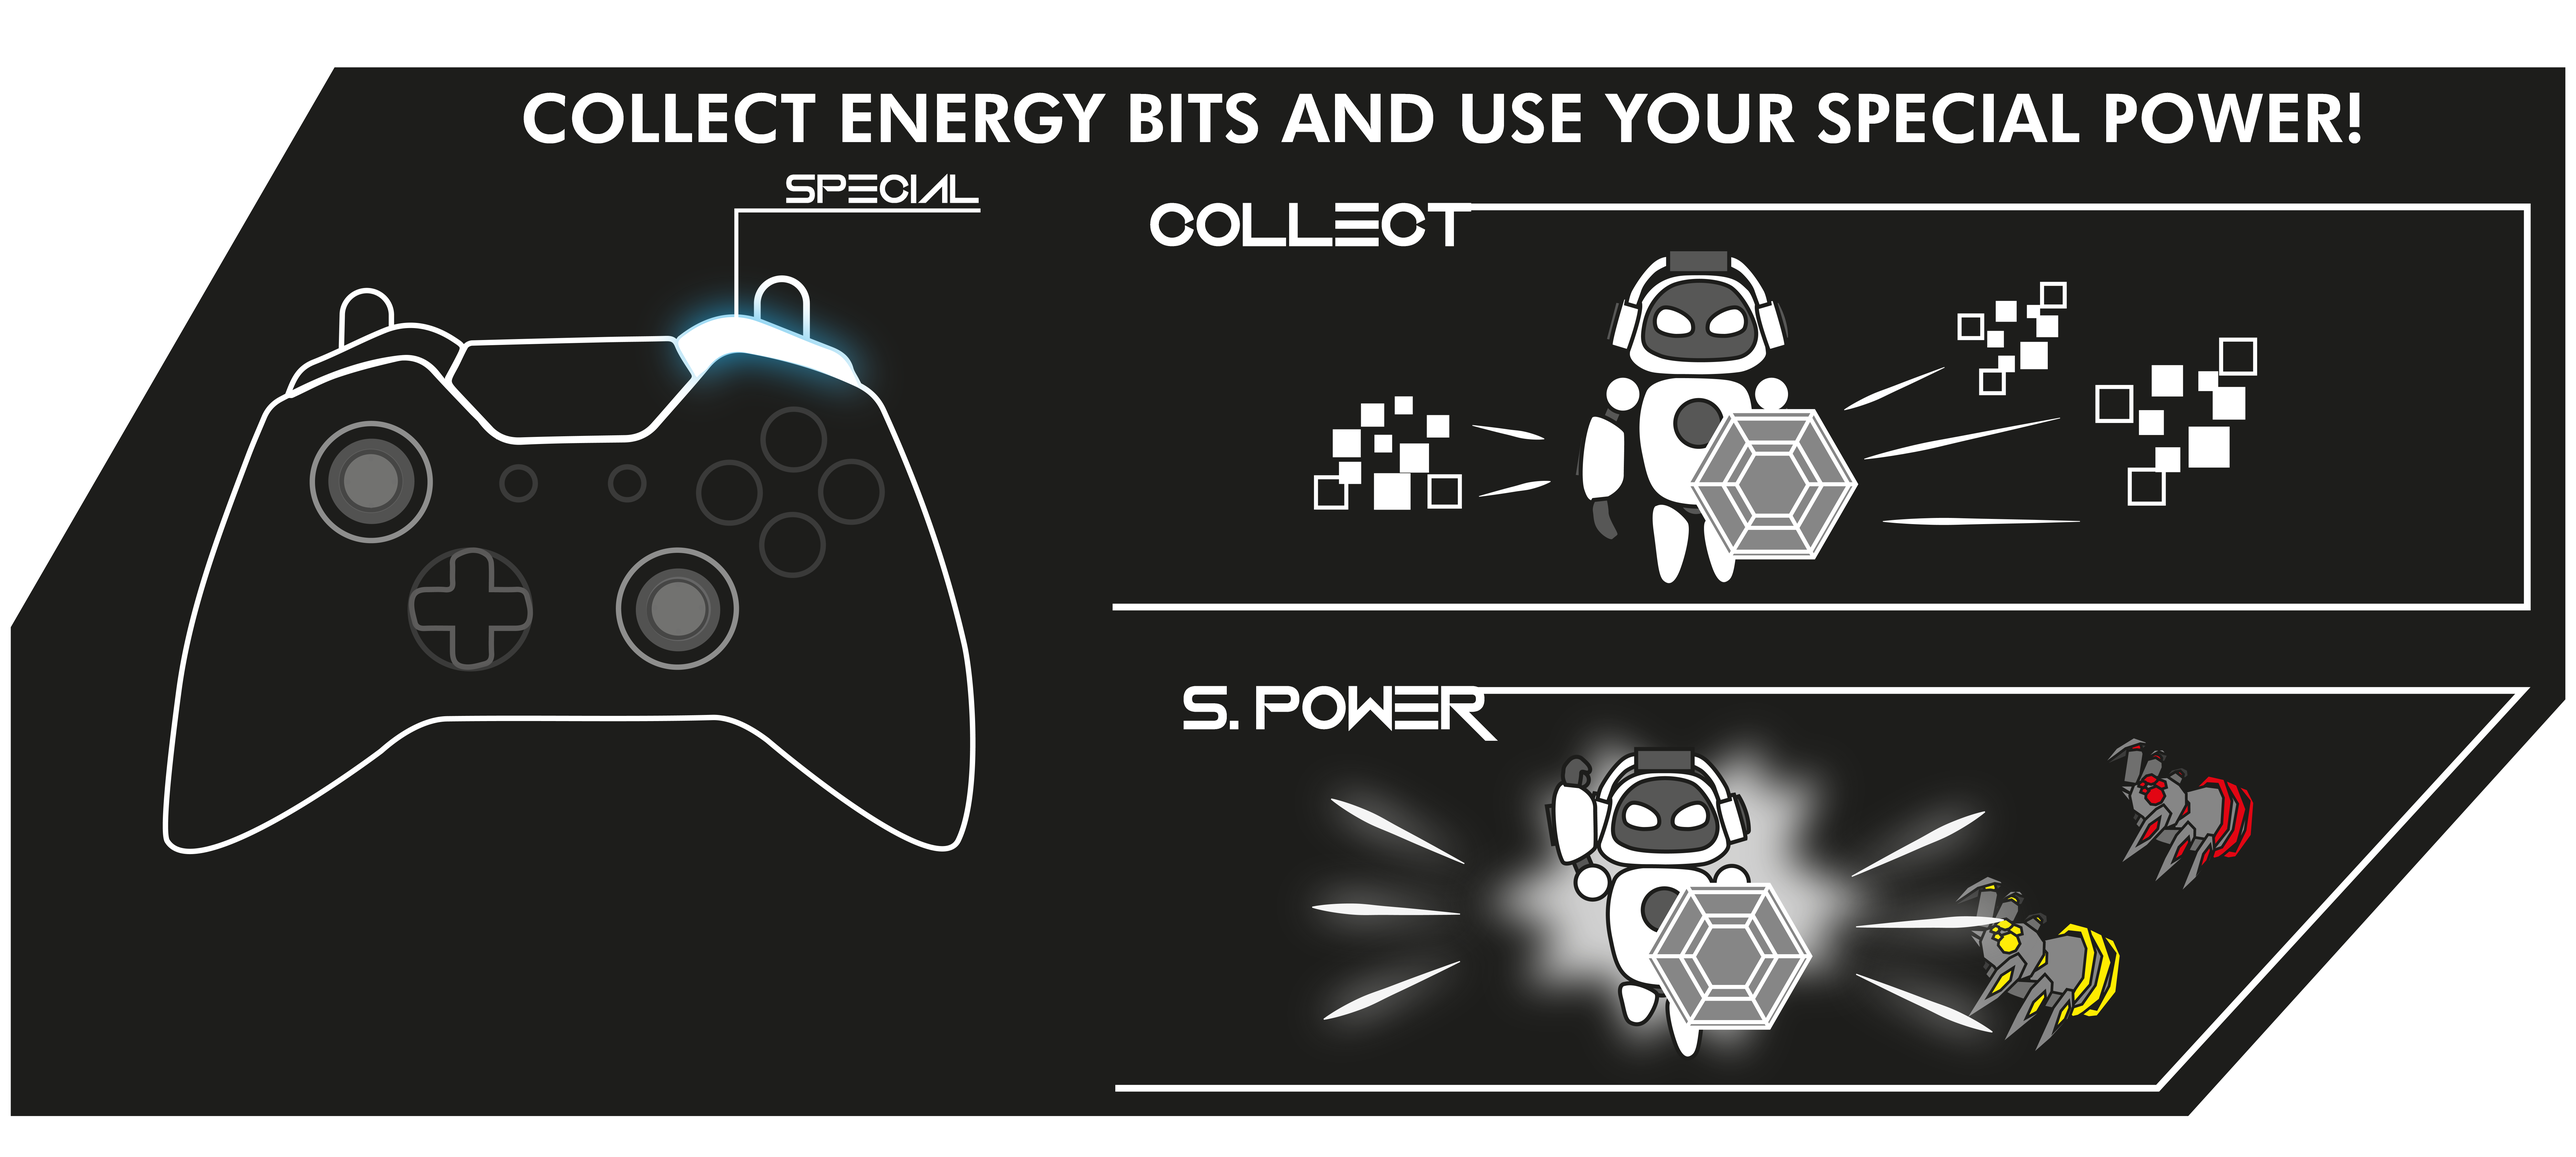
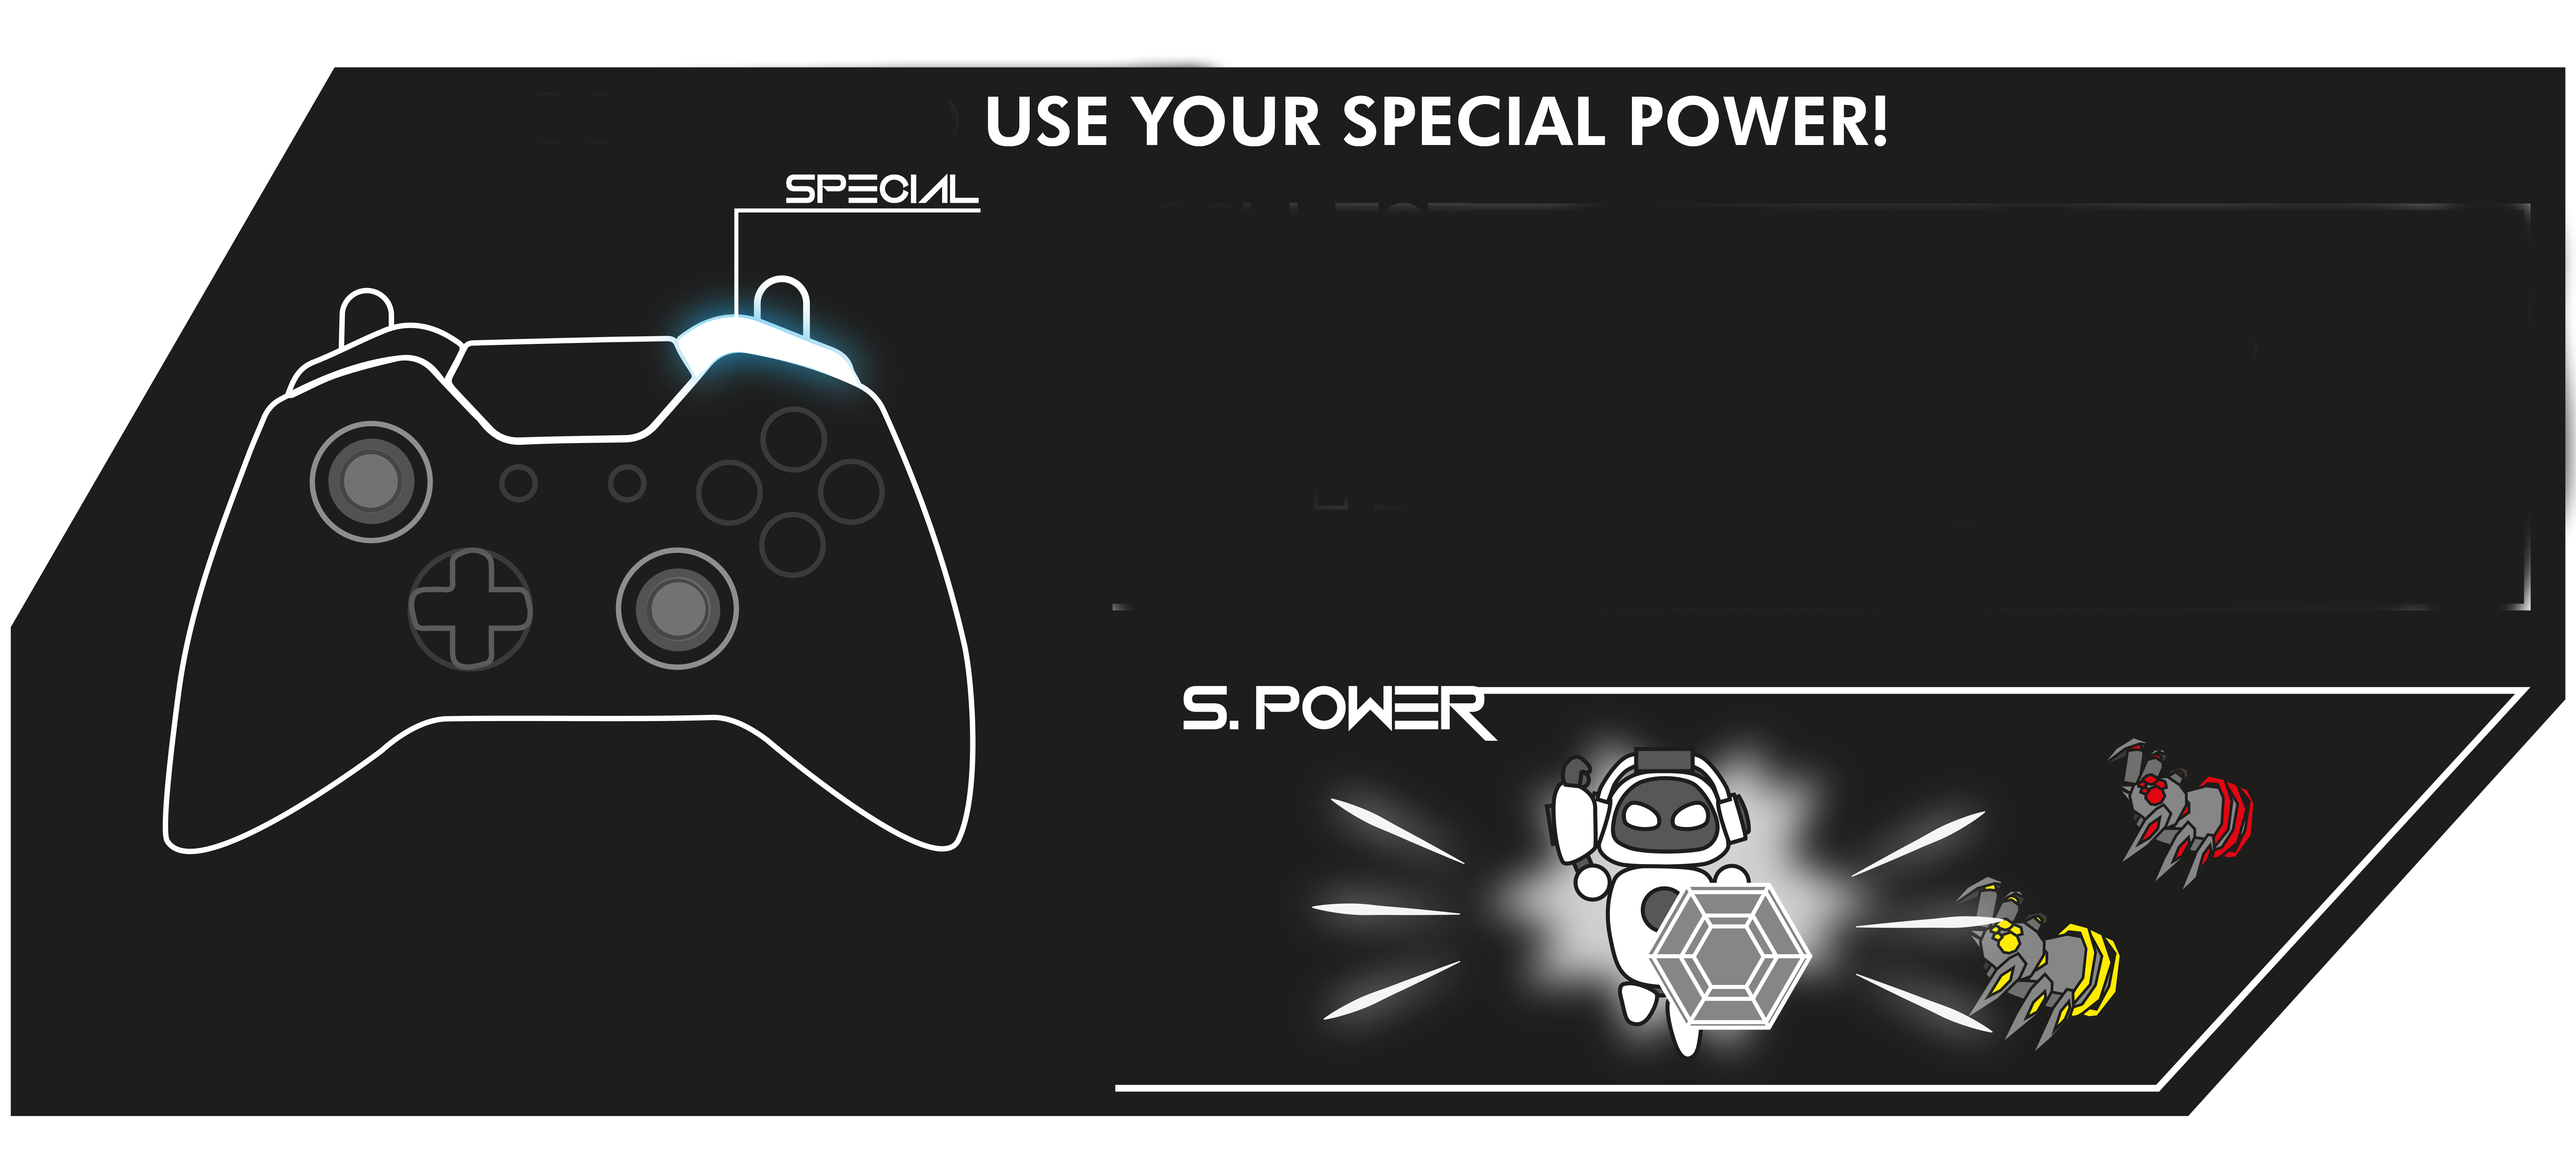
CHG: Changes in tutorial.
Now you can select to view or not tutorial when starting a game.
Special attack tutorial splitted. First when an enemy spawns energy
voxels, then when the energy bar is full.
Color mechanics changed too, to reflect color change periodically.
All new images are placeholders and are paint-art

diff --git a/Assets/Scripts/MainMenu/MainMenuManager.cs b/Assets/Scripts/MainMenu/MainMenuManager.cs
@@ -13,6 +13,7 @@ public class MainMenuManager : MonoBehaviour {
         IDLE,
         SHOW_HELP,
         FADING_TO_GAME,
+        ASK_TUTORIAL,
         FADING_TO_CREDITS,
         FADING_TO_OPTIONS,
         FADING_OUT
@@ -59,6 +60,8 @@ public class MainMenuManager : MonoBehaviour {
 
     private int tutorialCurrentIndex;
     private int tutorialTotalItems;
+
+    public GameObject askTutorial;
 
     private int playersNumber = 1;
 
@@ -201,7 +204,31 @@ public class MainMenuManager : MonoBehaviour {
 
             case MainMenuState.FADING_TO_GAME:
                 if(!fadeScript.FadingToColor)
+                {                  
+                    if (rsc.tutorialMng.active)
+                    {
+                        askTutorial.SetActive(true);
+                        currentState = MainMenuState.ASK_TUTORIAL;
+                    }
+                    else
+                        rsc.gameMng.StartNewGame(playersNumber);
+                }
+                break;
+
+            case MainMenuState.ASK_TUTORIAL:
+                if ((InputManager.Devices.Count >= 1 && InputManager.Devices[0].Action1.WasPressed)
+                    || (InputManager.Devices.Count >= 2 && InputManager.Devices[1].Action1.WasPressed))
                 {
+                    rsc.audioMng.acceptFx.Play();
+                    askTutorial.SetActive(false);
+                    rsc.gameMng.StartNewGame(playersNumber);
+                }
+                else if ((InputManager.Devices.Count >= 1 && InputManager.Devices[0].Action2.WasPressed)
+                    || (InputManager.Devices.Count >= 2 && InputManager.Devices[1].Action2.WasPressed))
+                {
+                    rsc.tutorialMng.active = false;
+                    rsc.audioMng.acceptFx.Play();
+                    askTutorial.SetActive(false);
                     rsc.gameMng.StartNewGame(playersNumber);
                 }
                 break;

diff --git a/Assets/Scripts/Managers/EnemyManager.cs b/Assets/Scripts/Managers/EnemyManager.cs
@@ -152,6 +152,8 @@ public class EnemyManager : MonoBehaviour
         rsc.eventMng.StartListening(EventManager.EventType.ENEMY_SPAWNED, EnemySpawned);
         rsc.eventMng.StartListening(EventManager.EventType.ENEMY_DIED, EnemyDied);
 
+        rsc.eventMng.StartListening(EventManager.EventType.ENERGY_VOXEL_SPAWNED, EnergyVoxelSpawned);
+
         rsc.eventMng.StartListening(EventManager.EventType.TURRET_SPAWNED, TurretSpawned);
         rsc.eventMng.StartListening(EventManager.EventType.TURRET_DESTROYED, TurretDestroyed);
 
@@ -179,6 +181,8 @@ public class EnemyManager : MonoBehaviour
         {
             rsc.eventMng.StopListening(EventManager.EventType.ENEMY_SPAWNED, EnemySpawned);
             rsc.eventMng.StopListening(EventManager.EventType.ENEMY_DIED, EnemyDied);
+
+            rsc.eventMng.StopListening(EventManager.EventType.ENERGY_VOXEL_SPAWNED, EnergyVoxelSpawned);
 
             rsc.eventMng.StopListening(EventManager.EventType.TURRET_SPAWNED, TurretSpawned);
             rsc.eventMng.StopListening(EventManager.EventType.TURRET_DESTROYED, TurretDestroyed);
@@ -225,6 +229,16 @@ public class EnemyManager : MonoBehaviour
         bb.zoneCurrentInfectionLevel -= info.infectionValue;
 
         //Debug.Log("Enemies-- = " + bb.activeEnemies);
+    }
+
+    private void EnergyVoxelSpawned(EventInfo eventInfo)
+    {
+        if (!bb.collectEnergyTutorialTriggered)
+        {
+            bb.collectEnergyTutorialTriggered = true;
+            TutorialEventInfo.eventInfo.type = TutorialManager.Type.COLLECT_ENERGY;
+            rsc.eventMng.TriggerEvent(EventManager.EventType.SHOW_TUTORIAL, TutorialEventInfo.eventInfo);
+        }
     }
 
     private void TurretSpawned(EventInfo eventInfo)

diff --git a/Assets/Scripts/GamePlay/Player/PlayerController.cs b/Assets/Scripts/GamePlay/Player/PlayerController.cs
@@ -353,20 +353,20 @@ public class PlayerController : MonoBehaviour
 
     public void RechargeEnergy(float energy)
     {
-        if (bb.currentEnergy == maxEnergy) return;
-
-        if(!bb.specialAttackTutorialTriggered)
-        {
-            bb.specialAttackTutorialTriggered = true;
-            TutorialEventInfo.eventInfo.type = TutorialManager.Type.SPECIAL_ATTACK;
-            rsc.eventMng.TriggerEvent(EventManager.EventType.SHOW_TUTORIAL, TutorialEventInfo.eventInfo);
-        }
+        if (bb.currentEnergy == maxEnergy) return;     
 
         bb.currentEnergy += energy;
         if (bb.currentEnergy >= maxEnergy)
         {
             bb.currentEnergy = maxEnergy;
             energyFullSoundFx.Play();
+
+            if (!bb.specialAttackTutorialTriggered)
+            {
+                bb.specialAttackTutorialTriggered = true;
+                TutorialEventInfo.eventInfo.type = TutorialManager.Type.SPECIAL_ATTACK;
+                rsc.eventMng.TriggerEvent(EventManager.EventType.SHOW_TUTORIAL, TutorialEventInfo.eventInfo);
+            }
         }
 
         CheckEnergyFullPS();

diff --git a/Assets/Scripts/GamePlay/AI/Blackboard/GlobalAIBlackboard.cs b/Assets/Scripts/GamePlay/AI/Blackboard/GlobalAIBlackboard.cs
@@ -9,6 +9,7 @@ public class GlobalAIBlackboard
     public int zoneTotalInfectionLevel;
     public int zoneCurrentInfectionLevel;
 
+    public bool collectEnergyTutorialTriggered;
     public int activeEnemies;
     //public int activeSpiders;
     public int activeVortex;
@@ -36,6 +37,7 @@ public class GlobalAIBlackboard
         enemyMng = eMng;
 
         ResetValues();
+        collectEnergyTutorialTriggered = false;
     }
 
     public void ResetValues()

diff --git a/Assets/Scripts/GamePlay/AI/SpiderAI/SpiderAIBehaviour.cs b/Assets/Scripts/GamePlay/AI/SpiderAI/SpiderAIBehaviour.cs
@@ -224,6 +224,8 @@ public class SpiderAIBehaviour : EnemyBaseAIBehaviour
                     voxel.transform.rotation = Random.rotation;
                 }
             }
+
+            rsc.eventMng.TriggerEvent(EventManager.EventType.ENERGY_VOXEL_SPAWNED, EventInfo.emptyInfo);
         }
         else
         {

diff --git a/Assets/Scripts/Managers/TutorialManager.cs b/Assets/Scripts/Managers/TutorialManager.cs
@@ -10,6 +10,7 @@ public class TutorialManager : MonoBehaviour
         CONTROLLER,
         BASICS,
         COLOR_MECHANICS,
+        COLLECT_ENERGY,
         SPECIAL_ATTACK,
         CAPACITOR,
         DEVICE,

diff --git a/Assets/Scripts/Managers/EventManager.cs b/Assets/Scripts/Managers/EventManager.cs
@@ -194,6 +194,8 @@ public class EventManager : MonoBehaviour {
         ENEMY_SPAWNED,
         ENEMY_DIED,
 
+        ENERGY_VOXEL_SPAWNED,
+
         TURRET_SPAWNED,
         TURRET_DESTROYED,
 

diff --git a/Assets/ZZ_ExternalResources/InControl/InControl/Source/VersionInfo.cs b/Assets/ZZ_ExternalResources/InControl/InControl/Source/VersionInfo.cs
@@ -28,7 +28,7 @@ namespace InControl
 				Major = 1,
 				Minor = 4,
 				Patch = 4,
-				Build = 8795
+				Build = 8803
 			};
 		}
 
